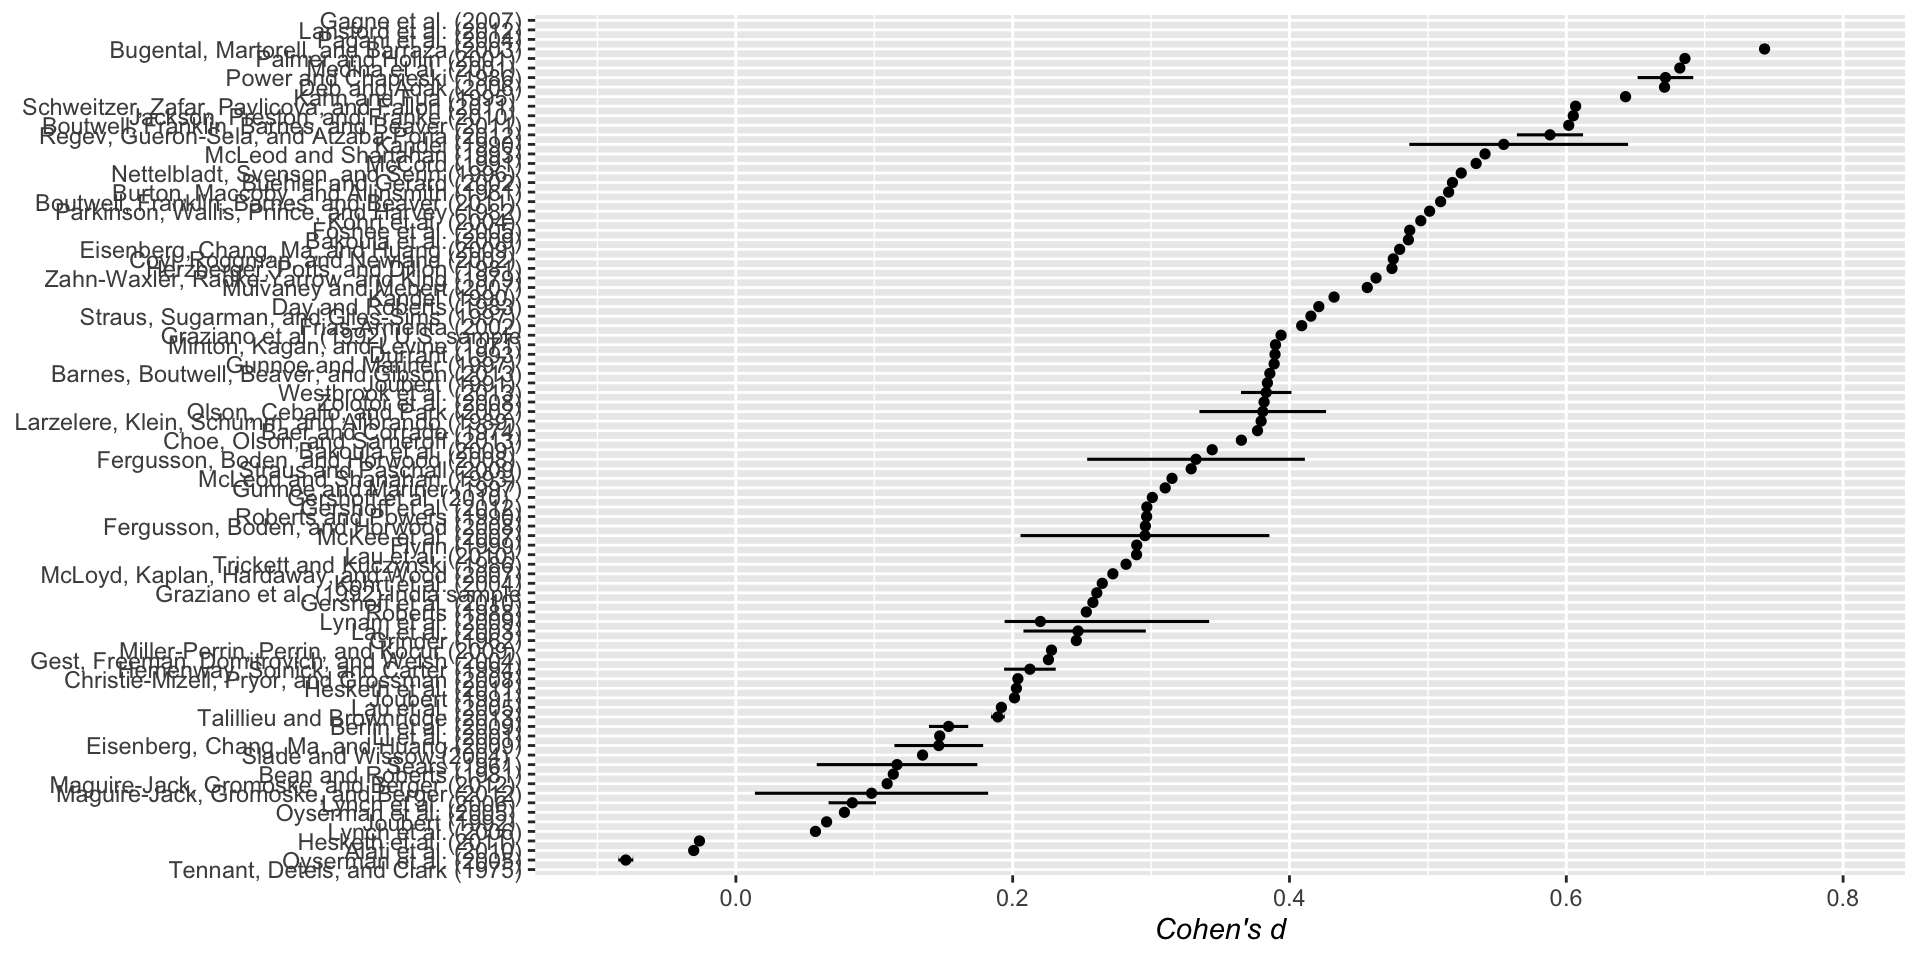
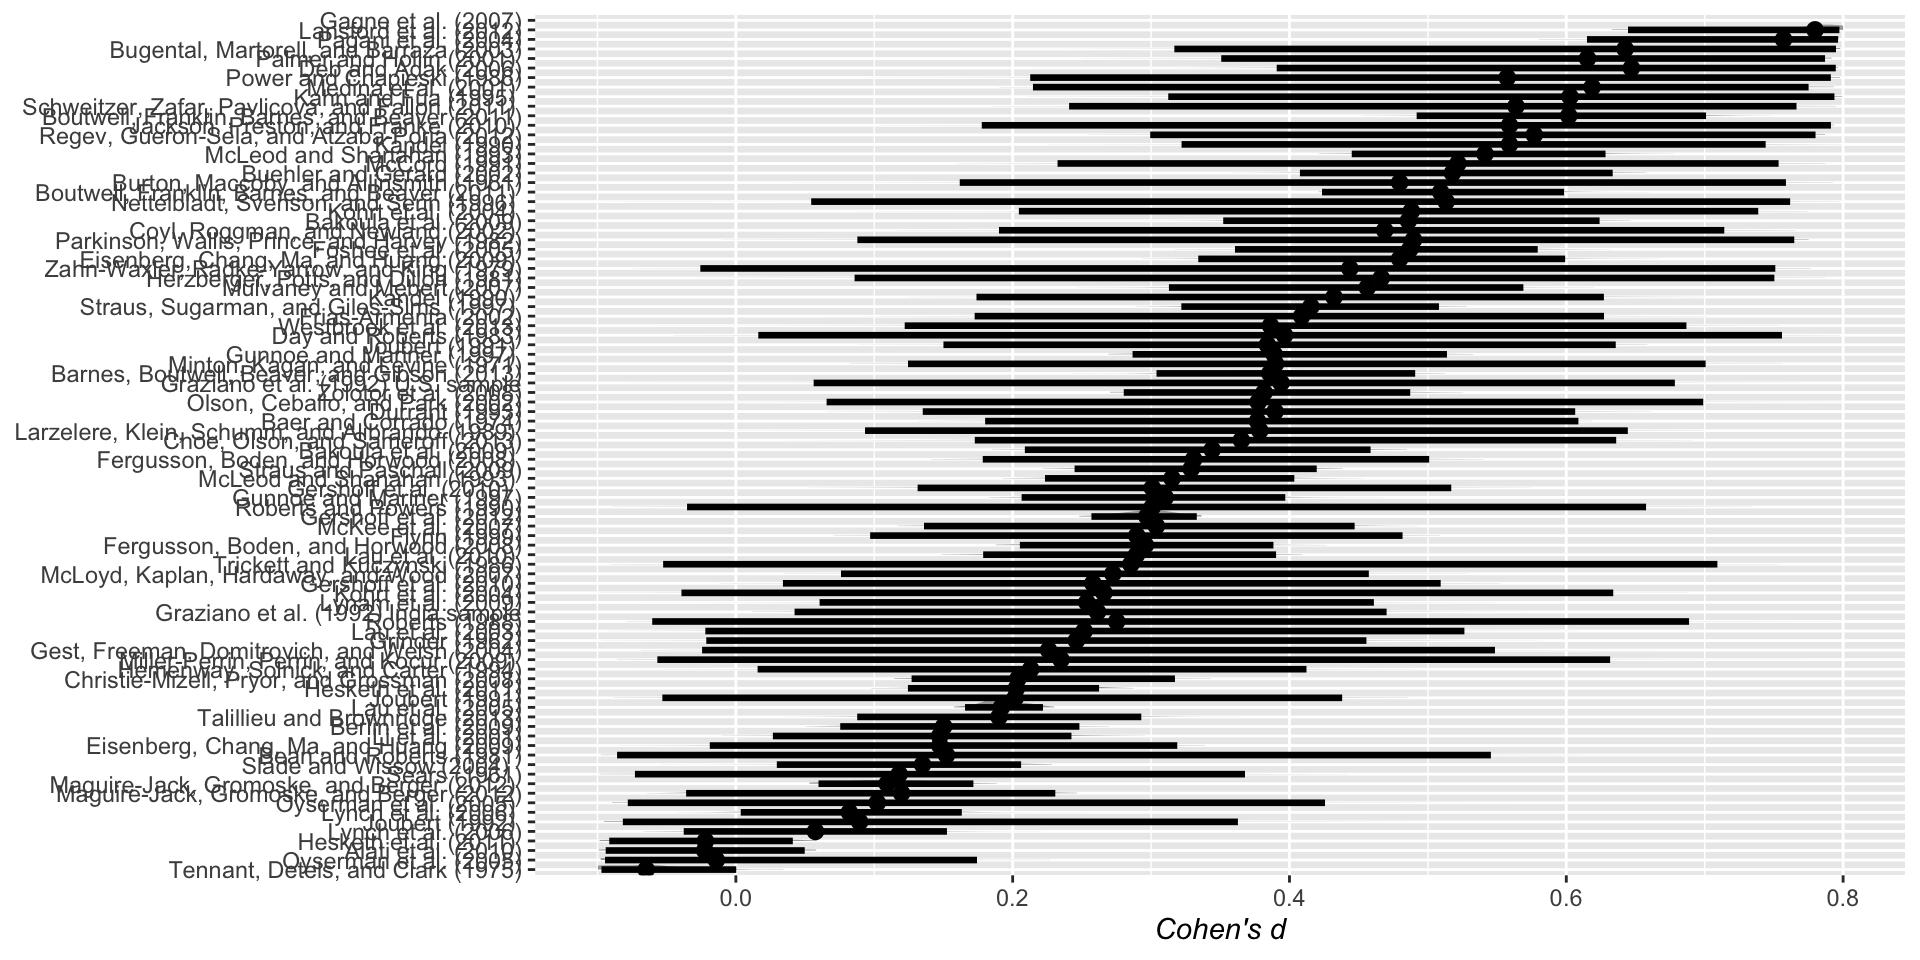
IRT updates.

diff --git a/_site/adv-9.html b/_site/adv-9.html
@@ -2741,6 +2741,8 @@ scale reduction factor on split chains (at convergence, Rhat = 1).</code></pre>
 <section class="slide level2">
 
 <div class="cell">
+<details>
+<summary>Code</summary>
 <div class="sourceCode cell-code" id="cb136"><pre class="sourceCode numberSource r number-lines code-with-copy"><code class="sourceCode r"><span id="cb136-1"><a href="#cb136-1"></a>fits2 <span class="ot">&lt;-</span> newd <span class="sc">%&gt;%</span></span>
 <span id="cb136-2"><a href="#cb136-2"></a>  <span class="fu">add_epred_draws</span>(melsm<span class="fl">.2</span>)</span>
 <span id="cb136-3"><a href="#cb136-3"></a></span>
@@ -2753,6 +2755,7 @@ scale reduction factor on split chains (at convergence, Rhat = 1).</code></pre>
 <span id="cb136-10"><a href="#cb136-10"></a>  <span class="fu">stat_lineribbon</span>(<span class="at">data =</span> preds2, <span class="fu">aes</span>(<span class="at">y =</span> .prediction),<span class="at">.width =</span> <span class="fu">c</span>(.<span class="dv">90</span>), <span class="at">alpha =</span> <span class="dv">1</span><span class="sc">/</span><span class="dv">4</span>, <span class="at">color =</span><span class="st">"blue"</span>) <span class="sc">+</span></span>
 <span id="cb136-11"><a href="#cb136-11"></a>  <span class="fu">geom_point</span>(<span class="at">data =</span> newd) <span class="sc">+</span></span>
 <span id="cb136-12"><a href="#cb136-12"></a>  <span class="fu">facet_wrap</span>(<span class="sc">~</span>record_id)</span></code><button title="Copy to Clipboard" class="code-copy-button"><i class="bi"></i></button></pre></div>
+</details>
 
 </div>
 <img data-src="adv-9_files/figure-revealjs/unnamed-chunk-93-1.png" width="960" class="r-stretch"></section>
@@ -4915,12 +4918,14 @@ scale reduction factor on split chains (at convergence, Rhat = 1).</code></pre>
 </section>
 <section id="brms-and-multiple-imputation" class="slide level2">
 <h2>brms and multiple imputation</h2>
-<p>Each missing value is not imputed N times leading to a total of N fully imputed data sets. The model is fitted to each data sets separately and results are pooled across models.</p>
+<p>Each missing value is imputed N times leading to a total of N fully imputed data sets. The imputation for each dataset is similar to our predict function, using variables to make a prediction. Sometimes this step is an iterative process.</p>
+<p>The model is then fit to N dataset separately and results are pooled across models.</p>
 <div class="cell">
 <details>
 <summary>Code</summary>
 <div class="sourceCode cell-code" id="cb162"><pre class="sourceCode numberSource r number-lines code-with-copy"><code class="sourceCode r"><span id="cb162-1"><a href="#cb162-1"></a><span class="fu">library</span>(mice)</span>
-<span id="cb162-2"><a href="#cb162-2"></a><span class="co">#multivariate imputation by chained equations</span></span></code><button title="Copy to Clipboard" class="code-copy-button"><i class="bi"></i></button></pre></div>
+<span id="cb162-2"><a href="#cb162-2"></a><span class="co">#multivariate imputation by chained equations</span></span>
+<span id="cb162-3"><a href="#cb162-3"></a><span class="co"># assumes the probability that a value is missing depends only on observed values and not on unobserved values</span></span></code><button title="Copy to Clipboard" class="code-copy-button"><i class="bi"></i></button></pre></div>
 </details>
 </div>
 </section>
@@ -6285,7 +6290,7 @@ scale reduction factor on split chains (at convergence, Rhat = 1).</code></pre>
 </section>
 <section class="slide level2">
 
-<p>We can account for this two ways. 1. modeling each sample rather than study. 2. Or we can model each different DV.</p>
+<p>We can account for this two ways. 1. modeling each estimate rather than study so as there is a random interercept for each value in the dataset. 2. Or, in this dataset, we can model each different DV as studies have two samples often have different DVs.</p>
 <div class="cell">
 <div class="sourceCode cell-code" id="cb207"><pre class="sourceCode numberSource r number-lines code-with-copy"><code class="sourceCode r"><span id="cb207-1"><a href="#cb207-1"></a>spank <span class="ot">&lt;-</span> spank <span class="sc">%&gt;%</span> <span class="fu">mutate</span>(<span class="at">id =</span> <span class="fu">row_number</span>())</span></code><button title="Copy to Clipboard" class="code-copy-button"><i class="bi"></i></button></pre></div>
 </div>
@@ -6626,8 +6631,8 @@ scale reduction factor on split chains (at convergence, Rhat = 1).</code></pre>
 <summary>Code</summary>
 <div class="sourceCode cell-code" id="cb217"><pre class="sourceCode numberSource r number-lines code-with-copy"><code class="sourceCode r"><span id="cb217-1"><a href="#cb217-1"></a><span class="fu">library</span>(marginaleffects)</span>
 <span id="cb217-2"><a href="#cb217-2"></a><span class="fu">predictions</span>(meta<span class="fl">.2</span>, <span class="at">type =</span> <span class="st">"response"</span>, <span class="at">ndraws =</span> <span class="dv">100</span>, <span class="at">re_formula =</span> <span class="cn">NULL</span>) <span class="sc">%&gt;%</span>  <span class="fu">posterior_draws</span>() <span class="sc">%&gt;%</span> </span>
-<span id="cb217-3"><a href="#cb217-3"></a>  <span class="fu">ggplot</span>(<span class="fu">aes</span>(<span class="at">x =</span> estimate, <span class="at">y =</span> <span class="fu">reorder</span>(study, estimate))) <span class="sc">+</span></span>
-<span id="cb217-4"><a href="#cb217-4"></a>  <span class="fu">stat_halfeye</span>(<span class="at">.width =</span> .<span class="dv">95</span>, <span class="at">size =</span> <span class="dv">2</span><span class="sc">/</span><span class="dv">3</span>) <span class="sc">+</span></span>
+<span id="cb217-3"><a href="#cb217-3"></a>  <span class="fu">ggplot</span>(<span class="fu">aes</span>(<span class="at">x =</span> draw, <span class="at">y =</span> <span class="fu">reorder</span>(study,draw))) <span class="sc">+</span></span>
+<span id="cb217-4"><a href="#cb217-4"></a>  <span class="fu">stat_halfeye</span>(<span class="at">.width =</span> .<span class="dv">95</span>) <span class="sc">+</span></span>
 <span id="cb217-5"><a href="#cb217-5"></a>  <span class="fu">labs</span>(<span class="at">x =</span> <span class="fu">expression</span>(<span class="fu">italic</span>(<span class="st">"Cohen's d"</span>)),</span>
 <span id="cb217-6"><a href="#cb217-6"></a>       <span class="at">y =</span> <span class="cn">NULL</span>) <span class="sc">+</span> <span class="fu">xlim</span>(<span class="sc">-</span>.<span class="dv">1</span>, .<span class="dv">8</span>)</span></code><button title="Copy to Clipboard" class="code-copy-button"><i class="bi"></i></button></pre></div>
 </details>
@@ -6637,13 +6642,15 @@ scale reduction factor on split chains (at convergence, Rhat = 1).</code></pre>
 <section class="slide level2">
 
 <div class="cell">
-<div class="sourceCode cell-code" id="cb218"><pre class="sourceCode numberSource r number-lines code-with-copy"><code class="sourceCode r"><span id="cb218-1"><a href="#cb218-1"></a><span class="co">#| code-fold: true</span></span>
-<span id="cb218-2"><a href="#cb218-2"></a><span class="fu">predictions</span>(meta<span class="fl">.2</span>, <span class="at">type =</span> <span class="st">"response"</span>, <span class="at">ndraws =</span> <span class="dv">1000</span>, <span class="at">re_formula =</span> <span class="cn">NULL</span>) <span class="sc">%&gt;%</span>  <span class="fu">posterior_draws</span>() <span class="sc">%&gt;%</span> </span>
-<span id="cb218-3"><a href="#cb218-3"></a>  <span class="fu">sample_n_of</span>(<span class="dv">25</span>,id) <span class="sc">%&gt;%</span> </span>
-<span id="cb218-4"><a href="#cb218-4"></a>  <span class="fu">ggplot</span>(<span class="fu">aes</span>(<span class="at">x =</span> draw, <span class="at">y =</span> <span class="fu">reorder</span>(study, draw))) <span class="sc">+</span></span>
-<span id="cb218-5"><a href="#cb218-5"></a>  <span class="fu">stat_halfeye</span>(<span class="at">.width =</span> .<span class="dv">95</span>) <span class="sc">+</span></span>
-<span id="cb218-6"><a href="#cb218-6"></a>  <span class="fu">labs</span>(<span class="at">x =</span> <span class="fu">expression</span>(<span class="fu">italic</span>(<span class="st">"Cohen's d"</span>)),</span>
-<span id="cb218-7"><a href="#cb218-7"></a>       <span class="at">y =</span> <span class="cn">NULL</span>) <span class="sc">+</span> <span class="fu">xlim</span>(<span class="sc">-</span>.<span class="dv">1</span>, <span class="dv">1</span>)</span></code><button title="Copy to Clipboard" class="code-copy-button"><i class="bi"></i></button></pre></div>
+<details>
+<summary>Code</summary>
+<div class="sourceCode cell-code" id="cb218"><pre class="sourceCode numberSource r number-lines code-with-copy"><code class="sourceCode r"><span id="cb218-1"><a href="#cb218-1"></a><span class="fu">predictions</span>(meta<span class="fl">.2</span>, <span class="at">type =</span> <span class="st">"response"</span>, <span class="at">ndraws =</span> <span class="dv">1000</span>, <span class="at">re_formula =</span> <span class="cn">NULL</span>) <span class="sc">%&gt;%</span>  <span class="fu">posterior_draws</span>() <span class="sc">%&gt;%</span> </span>
+<span id="cb218-2"><a href="#cb218-2"></a>  <span class="fu">sample_n_of</span>(<span class="dv">25</span>,id) <span class="sc">%&gt;%</span> </span>
+<span id="cb218-3"><a href="#cb218-3"></a>  <span class="fu">ggplot</span>(<span class="fu">aes</span>(<span class="at">x =</span> draw, <span class="at">y =</span> <span class="fu">reorder</span>(study, draw))) <span class="sc">+</span></span>
+<span id="cb218-4"><a href="#cb218-4"></a>  <span class="fu">stat_halfeye</span>(<span class="at">.width =</span> .<span class="dv">95</span>) <span class="sc">+</span></span>
+<span id="cb218-5"><a href="#cb218-5"></a>  <span class="fu">labs</span>(<span class="at">x =</span> <span class="fu">expression</span>(<span class="fu">italic</span>(<span class="st">"Cohen's d"</span>)),</span>
+<span id="cb218-6"><a href="#cb218-6"></a>       <span class="at">y =</span> <span class="cn">NULL</span>) <span class="sc">+</span> <span class="fu">xlim</span>(<span class="sc">-</span>.<span class="dv">1</span>, <span class="dv">1</span>)</span></code><button title="Copy to Clipboard" class="code-copy-button"><i class="bi"></i></button></pre></div>
+</details>
 
 </div>
 <img data-src="adv-9_files/figure-revealjs/unnamed-chunk-147-1.png" width="960" class="r-stretch"></section>
@@ -6736,7 +6743,7 @@ scale reduction factor on split chains (at convergence, Rhat = 1).</code></pre>
 <span id="cb223-12"><a href="#cb223-12"></a>  <span class="fu">ggplot</span>(<span class="fu">aes</span>(<span class="at">x =</span> mu, <span class="at">y =</span> <span class="fu">reorder</span>(outcome, mu))) <span class="sc">+</span></span>
 <span id="cb223-13"><a href="#cb223-13"></a>  <span class="fu">stat_halfeye</span>(<span class="at">.width =</span> .<span class="dv">95</span>, <span class="at">size =</span> <span class="dv">2</span><span class="sc">/</span><span class="dv">3</span>) <span class="sc">+</span></span>
 <span id="cb223-14"><a href="#cb223-14"></a>  <span class="fu">labs</span>(<span class="at">x =</span> <span class="fu">expression</span>(<span class="fu">italic</span>(<span class="st">"Cohen's d"</span>)),</span>
-<span id="cb223-15"><a href="#cb223-15"></a>       <span class="at">y =</span> <span class="cn">NULL</span>) <span class="sc">+</span> <span class="fu">xlim</span>(<span class="sc">-</span>.<span class="dv">1</span>, .<span class="dv">8</span>)<span class="sc">+</span></span>
+<span id="cb223-15"><a href="#cb223-15"></a>       <span class="at">y =</span> <span class="cn">NULL</span>) <span class="sc">+</span> <span class="fu">xlim</span>(<span class="sc">-</span>.<span class="dv">1</span>, .<span class="dv">9</span>)<span class="sc">+</span></span>
 <span id="cb223-16"><a href="#cb223-16"></a>    <span class="fu">geom_text</span>(</span>
 <span id="cb223-17"><a href="#cb223-17"></a>    <span class="at">data =</span> <span class="fu">mutate_if</span>(out_all_sum, is.numeric, round, <span class="dv">2</span>),</span>
 <span id="cb223-18"><a href="#cb223-18"></a>    <span class="fu">aes</span>(<span class="at">label =</span> glue<span class="sc">::</span><span class="fu">glue</span>(<span class="st">"{mu} [{.lower}, {.upper}]"</span>), <span class="at">x =</span> <span class="cn">Inf</span>),</span>
@@ -14739,7 +14746,10 @@ scale reduction factor on split chains (at convergence, Rhat = 1).</code></pre>
 <section id="pl-two-parameter-logistic" class="slide level2">
 <h2>2PL (Two parameter logistic)</h2>
 <p><span class="math display">\[ y_{pi}  \sim  \text{Bernoulli}(p_{pi})\]</span> <span class="math display">\[ logit(p_{pi}) =  \alpha_i(\theta_p + \delta_i) \]</span> Alpha is our discrimination parameter. In the 1pl it is held constant at 1. The i subscript indicates the discrimination parameter varies across the items, not across persons.</p>
-<p><span class="math display">\[ \theta_p  \sim \text{Normal}(0, \sigma_\theta)\]</span> <span class="math display">\[ \delta_i  \sim \text{Normal}(0, \sigma_\delta)\]</span> —–</p>
+<p><span class="math display">\[ \theta_p  \sim \text{Normal}(0, \sigma_\theta)\]</span> <span class="math display">\[ \delta_i  \sim \text{Normal}(0, \sigma_\delta)\]</span></p>
+</section>
+<section class="slide level2">
+
 <p>What does discrimination do?</p>
 <p>We will see non-parallel lines in the item characteristic terms.</p>
 <p>The 1pl is equivalent to setting factor loadings to 1 in SEM, where this relaxes that constraint.</p>
@@ -15197,11 +15207,12 @@ scale reduction factor on split chains (at convergence, Rhat = 1).</code></pre>
 <div class="cell">
 <details>
 <summary>Code</summary>
-<div class="sourceCode cell-code" id="cb242"><pre class="sourceCode numberSource r number-lines code-with-copy"><code class="sourceCode r"><span id="cb242-1"><a href="#cb242-1"></a>irt<span class="fl">.2</span> <span class="sc">%&gt;%</span> </span>
+<div class="sourceCode cell-code" id="cb242"><pre class="sourceCode numberSource r number-lines code-with-copy"><code class="sourceCode r"><span id="cb242-1"><a href="#cb242-1"></a>irt2.dat <span class="ot">&lt;-</span> irt<span class="fl">.2</span> <span class="sc">%&gt;%</span> </span>
 <span id="cb242-2"><a href="#cb242-2"></a>  <span class="fu">spread_draws</span>(b_delta_Intercept, b_logalpha_Intercept, r_item__logalpha[item,],r_item__delta[item,]) <span class="sc">%&gt;%</span> </span>
 <span id="cb242-3"><a href="#cb242-3"></a>  <span class="fu">ungroup</span>() <span class="sc">%&gt;%</span> </span>
 <span id="cb242-4"><a href="#cb242-4"></a>  tidyr<span class="sc">::</span><span class="fu">expand</span>(<span class="fu">nesting</span>(.draw, b_delta_Intercept, b_logalpha_Intercept, item, r_item__logalpha,r_item__delta), <span class="at">theta =</span> <span class="fu">seq</span>(<span class="at">from =</span> <span class="sc">-</span><span class="dv">6</span>, <span class="at">to =</span> <span class="dv">6</span>, <span class="at">length.out =</span> <span class="dv">100</span>)) <span class="sc">%&gt;%</span> </span>
-<span id="cb242-5"><a href="#cb242-5"></a>  <span class="fu">mutate</span>(<span class="at">p =</span> <span class="fu">inv_logit_scaled</span>(<span class="fu">exp</span>(b_logalpha_Intercept <span class="sc">+</span> r_item__logalpha) <span class="sc">*</span> (b_delta_Intercept <span class="sc">+</span> theta <span class="sc">+</span> r_item__delta)))</span></code><button title="Copy to Clipboard" class="code-copy-button"><i class="bi"></i></button></pre></div>
+<span id="cb242-5"><a href="#cb242-5"></a>  <span class="fu">mutate</span>(<span class="at">p =</span> <span class="fu">inv_logit_scaled</span>(<span class="fu">exp</span>(b_logalpha_Intercept <span class="sc">+</span> r_item__logalpha) <span class="sc">*</span> (b_delta_Intercept <span class="sc">+</span> theta <span class="sc">+</span> r_item__delta)))</span>
+<span id="cb242-6"><a href="#cb242-6"></a>irt2.dat</span></code><button title="Copy to Clipboard" class="code-copy-button"><i class="bi"></i></button></pre></div>
 </details>
 <div class="cell-output cell-output-stdout">
 <pre><code># A tibble: 9,600,000 × 8
@@ -15291,7 +15302,8 @@ scale reduction factor on split chains (at convergence, Rhat = 1).</code></pre>
 <img data-src="adv-9_files/figure-revealjs/unnamed-chunk-167-1.png" width="960" class="r-stretch"></section>
 <section id="graded-response-model" class="slide level2">
 <h2>Graded Response Model</h2>
-<p>From a binary setting to one in which we have multiple, ordered response categories such as with likert items.</p>
+<p>From a binary setting to one in which we have multiple, ordered response categories such as with likert items. ## Pros and Cons of IRT Pro: CAT, item and people are interpreted on the same probability metric, some scores can be measured with more precision than others (rather than one reliability assessment), creation of item banks, investigation of differential item functioning (DIF)</p>
+<p>Con: complex, CTT and IRT assessments correlate &gt;.96,</p>
 
 <div class="footer footer-default">
 
